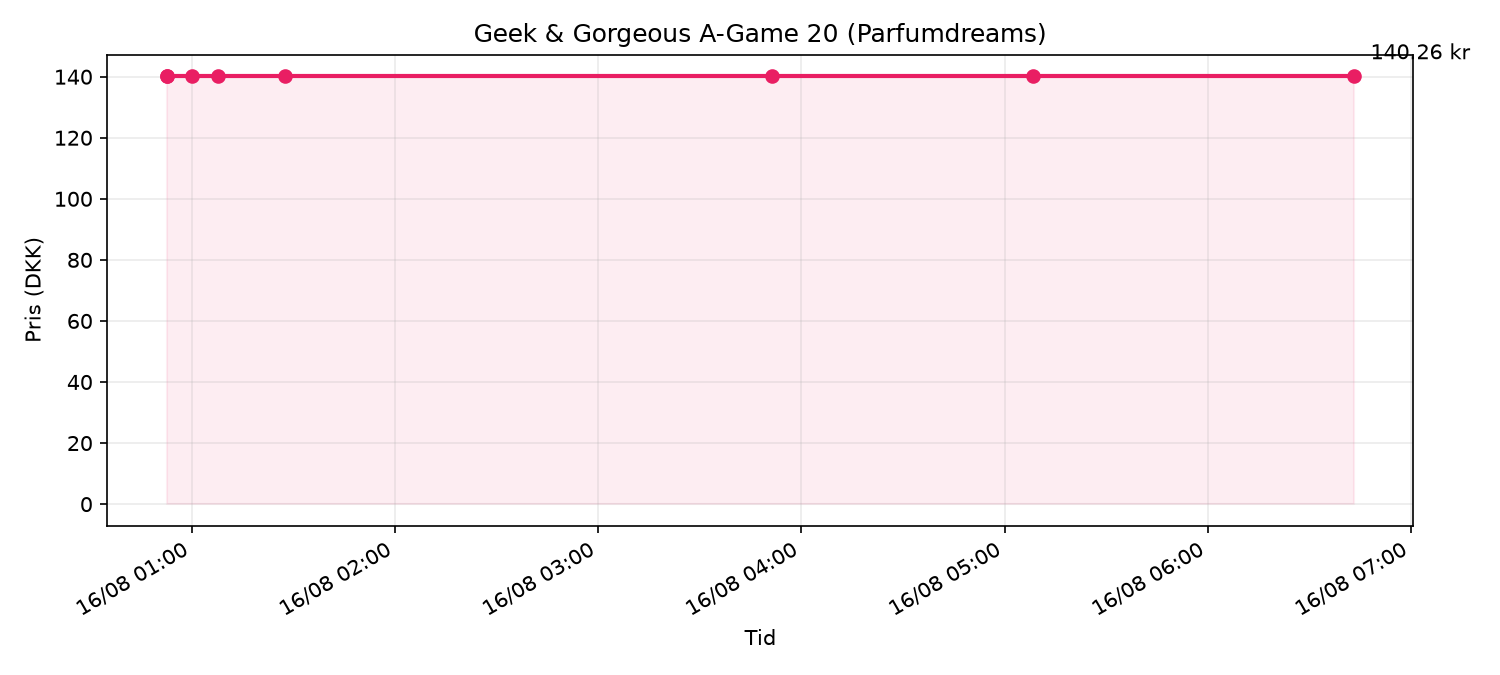
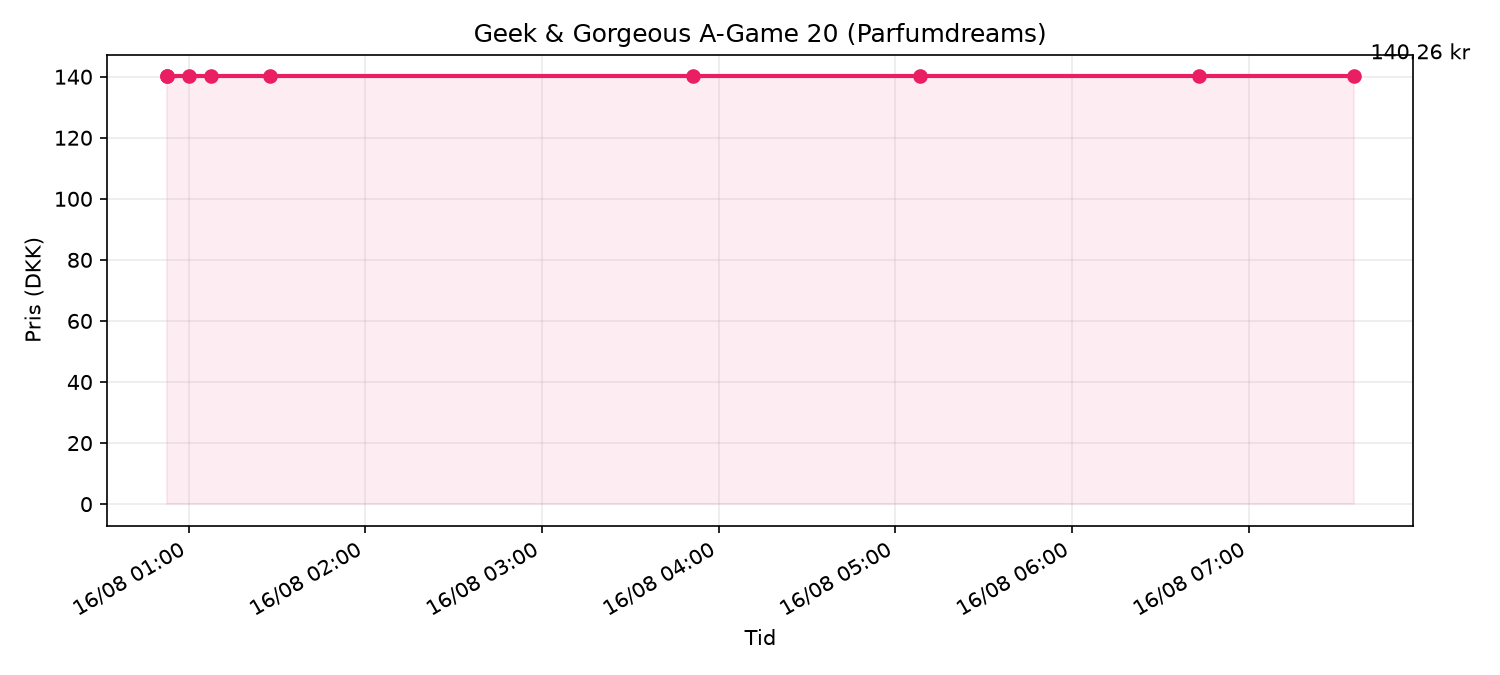
deploy: 222730f04bb4d1a8d43af6469835e9c4ebd934f1

diff --git a/price_chart.html b/price_chart.html
@@ -13,7 +13,7 @@
 </head>
 <body>
   <h1>Geek & Gorgeous A-Game 20 (Parfumdreams)</h1>
-  <p class="meta">Senest tjekket: 16/08/2026 06:43 · Pris: <strong>140.26 kr</strong> · på lager</p>
+  <p class="meta">Senest tjekket: 16/08/2026 07:35 · Pris: <strong>140.26 kr</strong> · på lager</p>
   
   <p><a href="https://www.parfumdreams.dk/Geek-Gorgeous/Samlinger/101-aktive-stoffer/A-Game-20-Serum/index_137083.aspx?variation=221879">Åbn produkt på Parfumdreams</a></p>
   <img src="price_chart.png" alt="Prisgraf">
